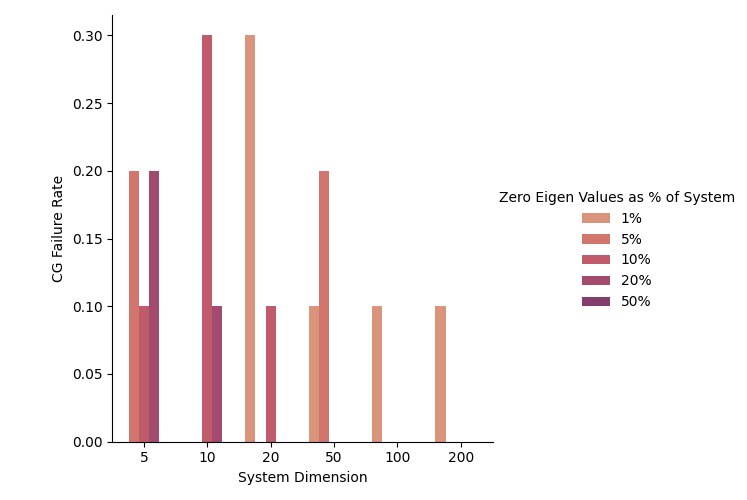
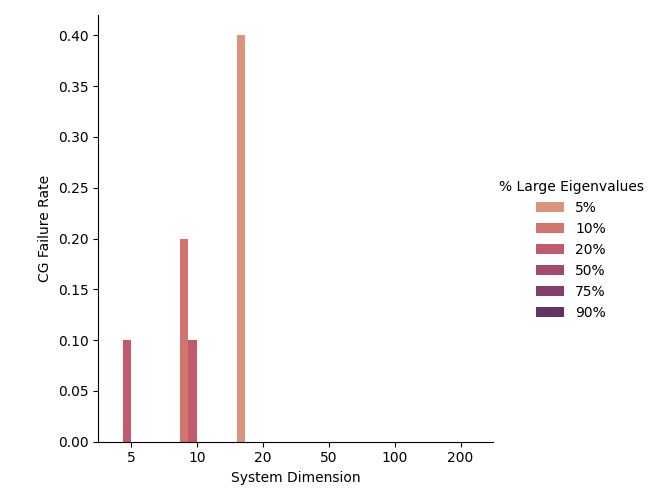
add testing setup for independent portions

diff --git a/independent_jacobi.py b/independent_jacobi.py
@@ -4,15 +4,17 @@ import seaborn as sns
 from matplotlib import pyplot as plt
 
 from conjugate_gradient import conjugate_gradient_2
-from sor import SOR
+from sor import SOR, SOR_omega
 from jacobi import jacobi
 from utils import create_matrix, COLOR_PALETTE
 
 # dimensions to test
 # DIMENSIONS = [10, 20, 50, 100, 200, 300, 500]
-DIMENSIONS = [5, 20, 10, 50, 100, 200]
+# DIMENSIONS = [20, 10, 50, 100, 200]
+DIMENSIONS = [10, 20, 30, 50, 80, 100]
 
-NULL_SPACE_PERCENT = [0.01, 0.05, 0.1, 0.2, 0.5]
+# NULL_SPACE_PERCENT = [0.1, 0.2, 0.5, 0.7, 0.8, 0.9]
+NULL_SPACE_PERCENT = [0.1, 0.2, 0.5, 0.7, 0.8]
 
 NUM_SAMPLES = 10
 
@@ -27,20 +29,14 @@ for d in DIMENSIONS:
     print(f'dimension: {d}')
 
     # do every experiment 10 times and take the average
-
     for p in NULL_SPACE_PERCENT:
-
-        # eigen = np.linspace(1, 1, d)  # note that the condition number here is inconsequential with custom eigen vals
-        # print(f'num zero eigen values = {int(len(eigen) * p)}')
-        # for i in range(int((1 - p) * len(eigen)), len(eigen)):
-        #     eigen[i] = 100_000 * d
 
         cg_failure_rate = 0
         for s in range(NUM_SAMPLES):
             # create random matrices for testing
 
-            ZERO_ELEMENTS = 3
             A = create_matrix(d, 100)
+            ZERO_ELEMENTS = len(A) * p
             for i in reversed(range(3)):
                 for j in range(3 - i):
                     A[len(A) - i - 1][j] = 0
@@ -53,8 +49,8 @@ for d in DIMENSIONS:
             # always start at zero x0 = np.random.rand(d, 1)
             b = np.random.rand(d, 1)
 
-            # err_code, x_star, num_iterations, flops = jacobi(A, np.random.rand(1, d)[0], 1_000)
-            err_code, x_star, num_iterations, flops = SOR(A, np.random.rand(1, d)[0], tol=1e-2)
+            err_code, x_star, num_iterations, flops = jacobi(A, np.random.rand(1, d)[0], 1_000)
+            # err_code, x_star, num_iterations, flops = SOR(A, np.random.rand(1, d)[0], tol=1e-2)
             # err_code, x_star, steps, iterations, cg_time, cg_norms = conjugate_gradient_2(A, b, 10e-2, len(A) * 2)
             print(f'error code: {err_code}')
 
@@ -64,11 +60,11 @@ for d in DIMENSIONS:
             [cg_failure_rate / NUM_SAMPLES, d, f'{int(p * 100)}%']
         )
 
-COLUMNS = ['CG Failure Rate', 'System Dimension', 'Zero Eigen Values as % of System']
+COLUMNS = ['CG Failure Rate', 'System Dimension', 'Percent Zero Elements Diag']
 df = pd.DataFrame(failure_rates, columns=COLUMNS)
 sns.catplot(data=df, x=COLUMNS[1], y=COLUMNS[0], hue=COLUMNS[2], kind="bar", palette=COLOR_PALETTE)
 
 # plt.savefig(f'./plots/determinant-zero.png')
-plt.savefig(f'./plots/big-eigenvalues.png')
+plt.savefig(f'./plots/independent-jacobi.png')
 plt.show()
 plt.cla()

diff --git a/independent_sor.py b/independent_sor.py
@@ -1,0 +1,76 @@
+import numpy as np
+import pandas as pd
+import seaborn as sns
+from matplotlib import pyplot as plt
+
+from sor import SOR_omega
+from utils import create_matrix, COLOR_PALETTE
+
+# dimensions to test
+# DIMENSIONS = [20, 10, 50, 100, 200]
+DIMENSIONS = [5, 10, 15, 20, 25, 30, 50]
+
+PERCENT_SPARSE = 0.9  # what percent of the diagonals are zero
+
+OMEGA_VALUES = [1, 1.025, 1.03, 1.05, 1.075, 1.1, 1.15, 1.2, 1.5]  # values of omega to test with
+
+NUM_SAMPLES = 10  # the sample size
+
+# variables to store results
+failure_rates = []
+iterations_per_omega = []
+for d in DIMENSIONS:
+
+    print('-----------------------------')
+    print(f'dimension: {d}')
+
+    # do every experiment 10 times and take the average
+    for omega in OMEGA_VALUES:
+
+        sor_failure_rate = 0
+        sor_iterations = 0
+        for s in range(NUM_SAMPLES):
+
+            # create random matrices for testing
+            A = create_matrix(d, 100)
+            ZERO_ELEMENTS = len(A) * PERCENT_SPARSE
+            for i in reversed(range(3)):
+                for j in range(3 - i):
+                    A[len(A) - i - 1][j] = 0
+
+            # mirror the elements for symmetry
+            A = np.tril(A) + np.tril(A).T - np.diag(np.diag(A))
+
+            print(f'condition # = {np.linalg.cond(A)}')
+
+            # always start at zero x0 = np.random.rand(d, 1)
+            b = np.random.rand(d, 1)
+
+            err_code, x_star, num_iterations, flops = SOR_omega(A, np.random.rand(1, d)[0], omega, tol=1e-2)
+            # err_code, x_star, steps, iterations, cg_time, cg_norms = conjugate_gradient_2(A, b, 10e-2, len(A) * 2)
+            print(f'error code: {err_code}')
+
+            sor_failure_rate += err_code
+            sor_iterations += num_iterations
+
+        failure_rates.append(
+            [sor_failure_rate / NUM_SAMPLES, d, omega]
+        )
+        iterations_per_omega.append(
+            [sor_iterations / NUM_SAMPLES, d, omega]
+        )
+
+
+
+COLUMNS = ['CG Failure Rate', 'System Dimension', 'Omega']
+df = pd.DataFrame(failure_rates, columns=COLUMNS)
+sns.catplot(data=df, x=COLUMNS[1], y=COLUMNS[0], hue=COLUMNS[2], kind="bar", palette=COLOR_PALETTE)
+plt.savefig(f'./plots/independent-sor-percent-sparse-{PERCENT_SPARSE}.png')
+plt.cla()
+
+
+COLUMNS = ['SOR Iterations', 'System Dimension', 'Omega']
+df = pd.DataFrame(iterations_per_omega, columns=COLUMNS)
+sns.catplot(data=df, x=COLUMNS[1], y=COLUMNS[0], hue=COLUMNS[2], kind="bar", palette=COLOR_PALETTE)
+plt.savefig(f'./plots/independent-sor-iterations-percent-sparse-{PERCENT_SPARSE}.png')
+plt.cla()

diff --git a/determinant_zero.py b/determinant_zero.py
@@ -10,7 +10,7 @@ from utils import create_matrix, COLOR_PALETTE
 # DIMENSIONS = [10, 20, 50, 100, 200, 300, 500]
 DIMENSIONS = [5, 20, 10, 50, 100, 200]
 
-NULL_SPACE_PERCENT = [0.01, 0.05, 0.1, 0.2, 0.5]
+NULL_SPACE_PERCENT = [0.05, 0.1, 0.2, 0.5, 0.75, 0.9]
 
 NUM_SAMPLES = 10
 
@@ -44,7 +44,7 @@ for d in DIMENSIONS:
             # always start at zero x0 = np.random.rand(d, 1)
             b = np.random.rand(d, 1)
 
-            err_code, x_star, steps, iterations, cg_time, cg_norms = conjugate_gradient_2(A, b, 10e-2, len(A) * 2)
+            err_code, x_star, steps, iterations, cg_time, cg_norms = conjugate_gradient_2(A, b, 10e-6, len(A) * 2)
             print(f'error code: {err_code}')
 
             cg_failure_rate += err_code
@@ -54,7 +54,8 @@ for d in DIMENSIONS:
         )
 
 
-COLUMNS = ['CG Failure Rate', 'System Dimension', 'Zero Eigen Values as % of System']
+# COLUMNS = ['CG Failure Rate', 'System Dimension', 'Zero Eigen Values as % of System']
+COLUMNS = ['CG Failure Rate', 'System Dimension', '% Large Eigenvalues']
 df = pd.DataFrame(failure_rates, columns=COLUMNS)
 sns.catplot(data=df, x=COLUMNS[1], y=COLUMNS[0], hue=COLUMNS[2], kind="bar", palette=COLOR_PALETTE)
 

diff --git a/sor.py b/sor.py
@@ -1,7 +1,7 @@
 import numpy as np
 
 
-def SOR(A, b, max_iterations=1000, tol=1e-10):
+def SOR(A, b, max_iterations=1_000, tol=1e-6):
     x = np.zeros_like(b)
     iterations = 0
     flops = 0
@@ -20,6 +20,25 @@ def SOR(A, b, max_iterations=1000, tol=1e-10):
         x = x_new
         iterations = iterations + 1
     return 1, x, iterations, flops
+
+
+def SOR_omega(A, b, omega, max_iterations=100, tol=1e-6):
+    x = np.zeros_like(b)
+    flops = 0
+    OmegaPrime = (1 - omega)
+    for iteration in range(1, max_iterations):
+        for i in range(A.shape[0]):
+            sigma = 0
+            for j in range(A.shape[1]):
+                if j != i:
+                    sigma += A[i][j] * x[j]
+                    flops = flops + 2
+                x[i] = OmegaPrime * x[i] + (omega / A[i][i]) * (b[i] - sigma)
+                flops = flops + 5
+            error = np.linalg.norm(np.matmul(A, x) - b)
+            if error < tol:
+                return 0, x, iteration, flops
+    return 1, x, iteration, flops
 
 
 # System
